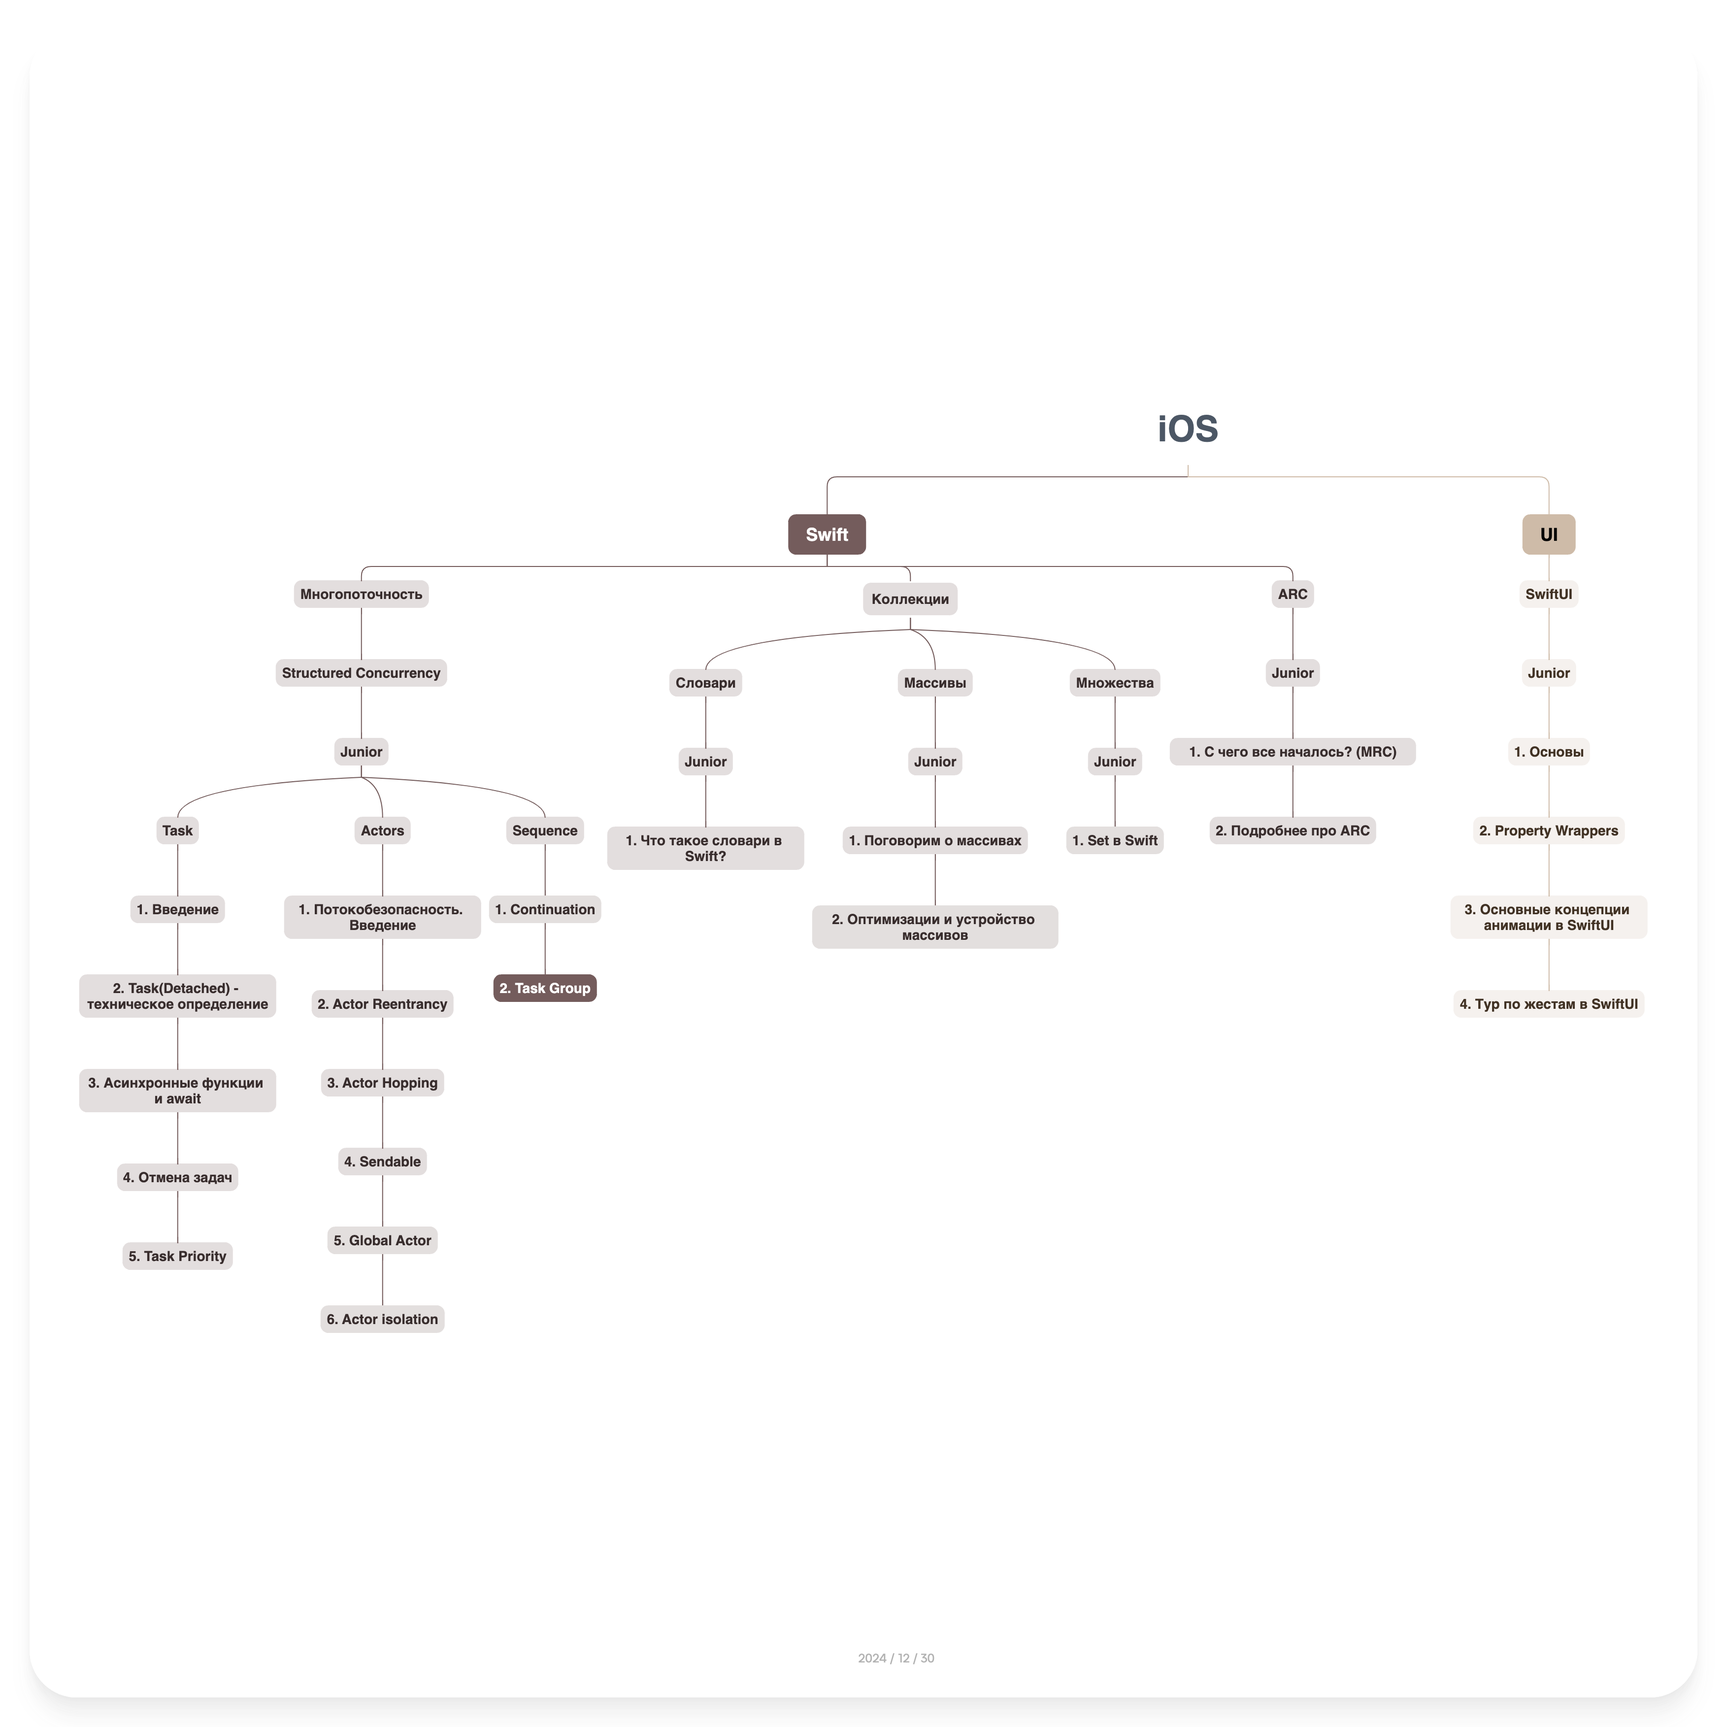
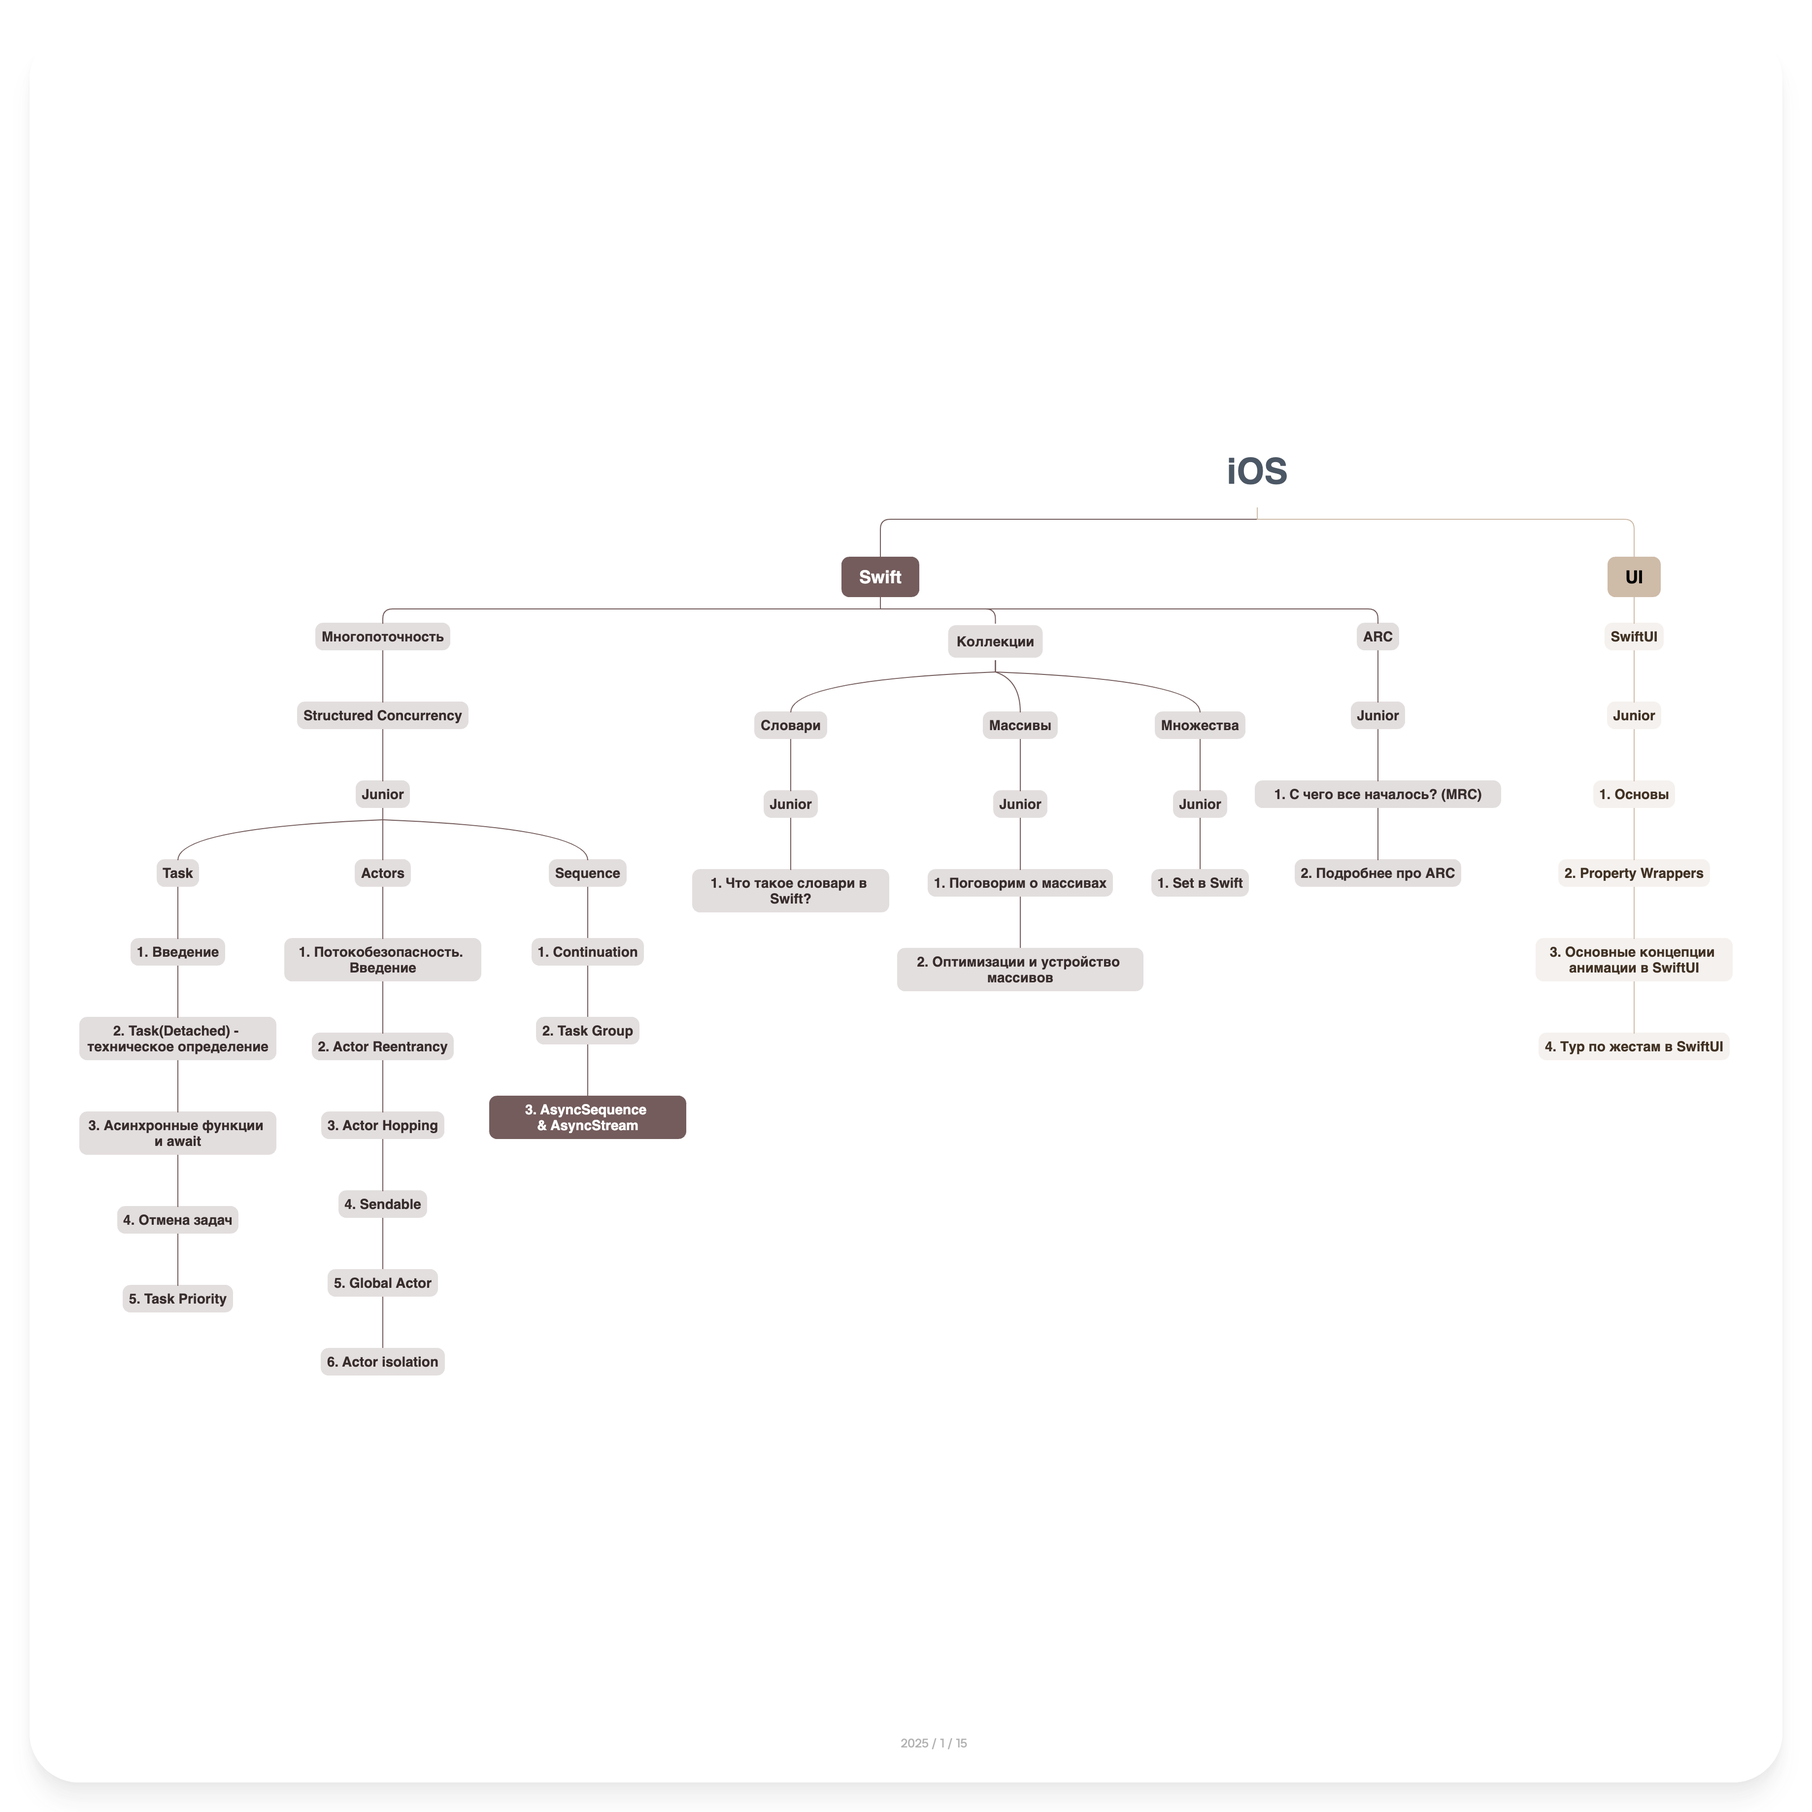
Sync changes from private repo to public

diff --git a/docs/Swift/Многопоточность/Structured Concurrency/Junior/Sequence/3. AsyncSequence & AsyncStream.md b/docs/Swift/Многопоточность/Structured Concurrency/Junior/Sequence/3. AsyncSequence & AsyncStream.md
@@ -1,0 +1,152 @@
+> До этого момента мы с вами говорили только про задачи, которые исходят от пользователя, которые мы создаём сами, но что если нам нужно ловить последовательность каких-нибудь событий? например последовательность событий из NotificationCenter или своих событий - для этого у нас есть 2 инструмента: AsyncSequence и чуть более удобный инструмент - AsyncStream
+
+## AsyncSequence
+AsyncSequence в Swift — это **протокол**, который позволяет работать с последовательностями асинхронных данных. В отличие от обычных последовательностей, которые возвращают значения немедленно, асинхронные последовательности могут приостанавливать выполнение для ожидания элементов.
+
+Не стоит волноваться, на самом деле данный протокол очень похож на обычный Sequence. То есть мы как и в обычном случае выполняем просто итерации с помощью цикла for in. Но единственное отличие AsyncSequence в том, что мы ожидаем пока нам придёт какой-нибудь элемент последовательности, поэтому требуется использование await.
+
+> **ВАЖНО**
+> AsyncSequence не генерирует значения и не содержит их - на самом деле данный протокол просто определяет способ доступа к элементам.
+
+```swift
+for await number in Counter(howHigh: 10) {
+	print(number, terminator: " ")
+} // Prints "1 2 3 4 5 6 7 8 9 10 "
+```
+
+1. **Создание Asynchronous Sequence**: 
+	Чтобы создать асинхронную последовательность, нужно реализовать протокол AsyncSequence. Это похоже на создание класса с определенными методами, с одной лишь разницей — он должен уметь работать "асинхронно", т.е., приостанавливаться и возобновляться.
+
+2. **AsyncIteratorProtocol**:
+	Вместе с AsyncSequence, нам нужно реализовать AsyncIteratorProtocol, который определяет, как получать следующий элемент асинхронно.
+
+3. **Цикл** for await:
+	for await — это специальный цикл, который позволяет перебрать элементы нашей асинхронной последовательности. Он похож на обычный for in, но предназначен для асинхронного использования.
+
+Для понимания приложим пример создания AsyncSequence:
+```swift
+
+struct Counter: AsyncSequence {
+	
+	let limit: Int
+
+    struct AsyncIterator : AsyncIteratorProtocol {
+		let limit: Int
+		var current = 1
+
+        mutating func next() async -> Int? {
+            guard !Task.isCancelled else {
+	            return nil
+            }
+ 
+            guard current <= limit else {
+	            return nil
+            }
+			let result = current
+			current += 1
+			returnresult
+        }
+    }
+	
+	func makeAsyncIterator() -> AsyncIterator {
+		return AsyncIterator(howHigh: limit)
+    }
+}
+```
+
+### AsyncIterator
+AsyncIterator — это часть механизма работы с AsyncSequence в Swift. Его задача — асинхронно предоставлять каждый следующий элемент из последовательности.
+
+Ключевые моменты:
+
+1. **Асинхронность**: AsyncIterator позволяет нам получать элементы, которые могут быть доступны не сразу. Это очень важно, когда данные поступают, например, по сети или из какого-то ресурса, который не возвращает сразу все значения.
+
+
+3. **Протокол** AsyncIteratorProtocol: Чтобы создать AsyncIterator, нужно следовать протоколу AsyncIteratorProtocol. Он требует реализации одного основного метода: next.
+
+> Данного понимания будет достаточно на этапе начинающего разработчика
+
+
+## Async Stream
+Гораздо чаще в разработке используется AsyncStream. **AsyncStream:** - это структура, которая реализует протокол AsyncSequence. Она предоставляет механизм для создания асинхронных последовательностей, где значения могут поступать в произвольное время. AsyncStream управляет внутренним состоянием и предоставляет методы для добавления новых значений (yield) и завершения последовательности (finish).
+
+Простыми словами AsyncStream имеет более удобный интерфейс для работы с асинхронными последовательностями.  Но как же пользоваться Async Stream?
+
+### Создание Async Stream
+1. Через замыкание
+```swift
+let matchingLineNumbersStream = AsyncStream<Int> { continuation in  
+	Task {  
+	    var lineNumber: Int = 0  
+	    for try await line in swiftFileUrl.lines {  
+		    lineNumber += 1 
+			if matches(line) {  
+	            continuation.yield(lineNumber)  
+	         } 
+	     }
+	     continuation.finish()
+	}  
+}
+```
+	Создание стрима через замыкание используется крайне редко, потому что это неочень удобно, в большинстве случаем используется следующий пункт
+	
+2. makeStream()
+   Данный метод возвращает сущность asyncStream и continuation, через который и можно добавлять задачи в asyncStream *(см пример Задача с Собеседования)*
+
+### Отправка задач в поток.
+Задачки в stream отправляются через continuation с помощью метода yield
+```swift
+let stream = AsyncStream<Int> { continuation in  
+	continuation.yield(5)
+}
+```
+
+### Обработка ивенов из стрима
+```swift
+let stream = AsyncStream<Int> { continuation in  
+	continuation.yield(5)
+}
+
+Task.detached {
+	for await event in stream { .... }
+}
+```
+
+### Завершение работы
+ После того как вы закончили обработку последовательности или вам больше не нужны события из стрима - необходимо в continuation вызывать метод finish
+
+
+![[taskFromInterview.gif]]
+> Как в парадигме structured concurrency обрабатывать задачи последовательно? не нарушая порядка - первая задача пришла, первая обработалась, соблюдая принцип FIFO. Напишите реализацию вашей идеи
+
+В данном вопросе конечно же ожидается, что кандидат работал и знает про AsyncStream. Реализация в коде выглядит так:
+![[streamExample.png]]
+
+Пример выше позволяет очень удобно добавлять задачи в очередь для того, чтобы они обрабатывались последовательно. 
+
+
+![[taskFromInterview.gif]]
+> Предположим, что у меня есть источник данных, который генерирует события и отправляет их в AsyncStream. Я хочу получать эти события в двух разных местах. Как мне быть?
+
+Пояснение: Есть код
+```swift
+let stream = AsyncStream<Int> { .... }
+
+/// Можно ли использовать следующую конструкцию?
+
+Task.detached {
+	for await event in stream { .... }
+}
+
+Task.detached {
+	for await event in stream { .... }
+}
+```
+
+**Ответ**: Нет, такую конструкцию использовать нельзя! AsyncStream ну умеет работать с множественными подписчиками. А почему и как это обойти - мы рассмотрим в дальнейшем материале.
+
+
+## Итог
+Из статьи выше должно быть просто понимание того, что в Structured Concurrency есть механизм для работы с последовательностями событий, что есть возможность организовать FIFO порядок выполнения задач.  Вы можете самостоятельно попробовать написать несколько примеров, чтобы лучше понимать синтаксис AsyncSequence & AsyncStream  или же перейти к решению задач в практикуме в разделе Junior.
+
+*Как они работают под капотом и углубленное изучение AsyncSequence/AsyncStream будет уже в разделе на  мидл разработчика.* 
